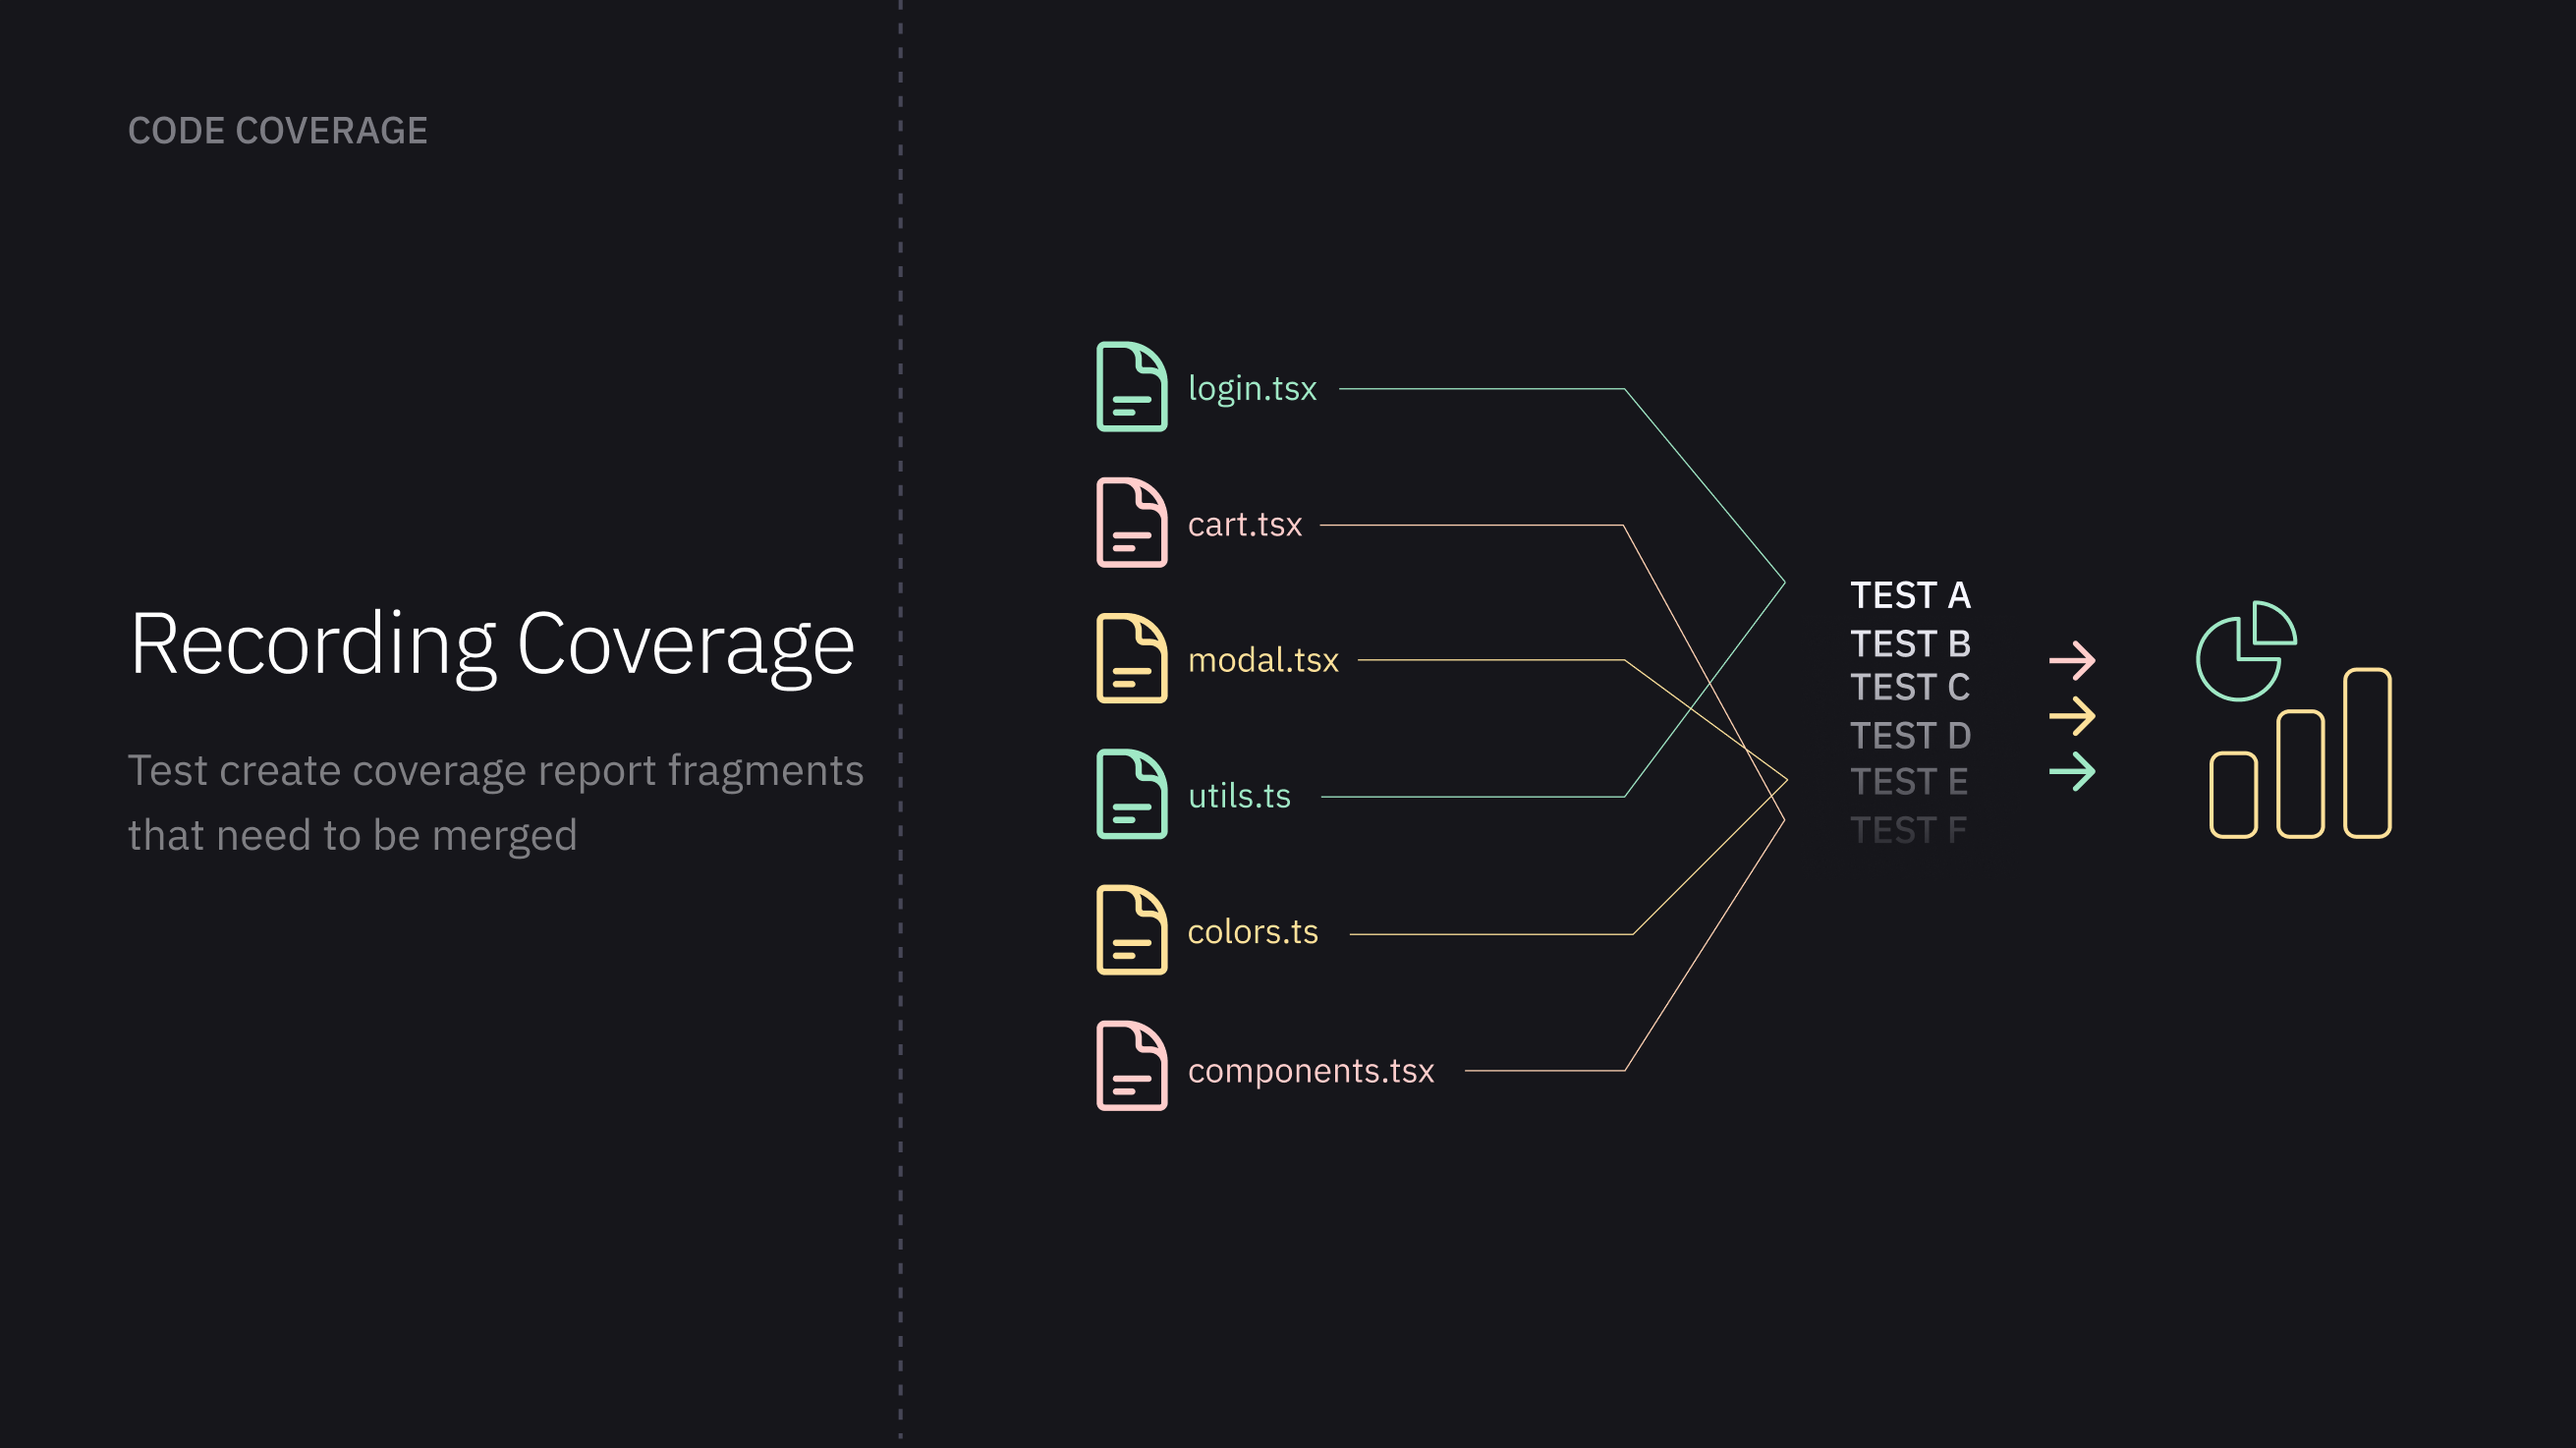
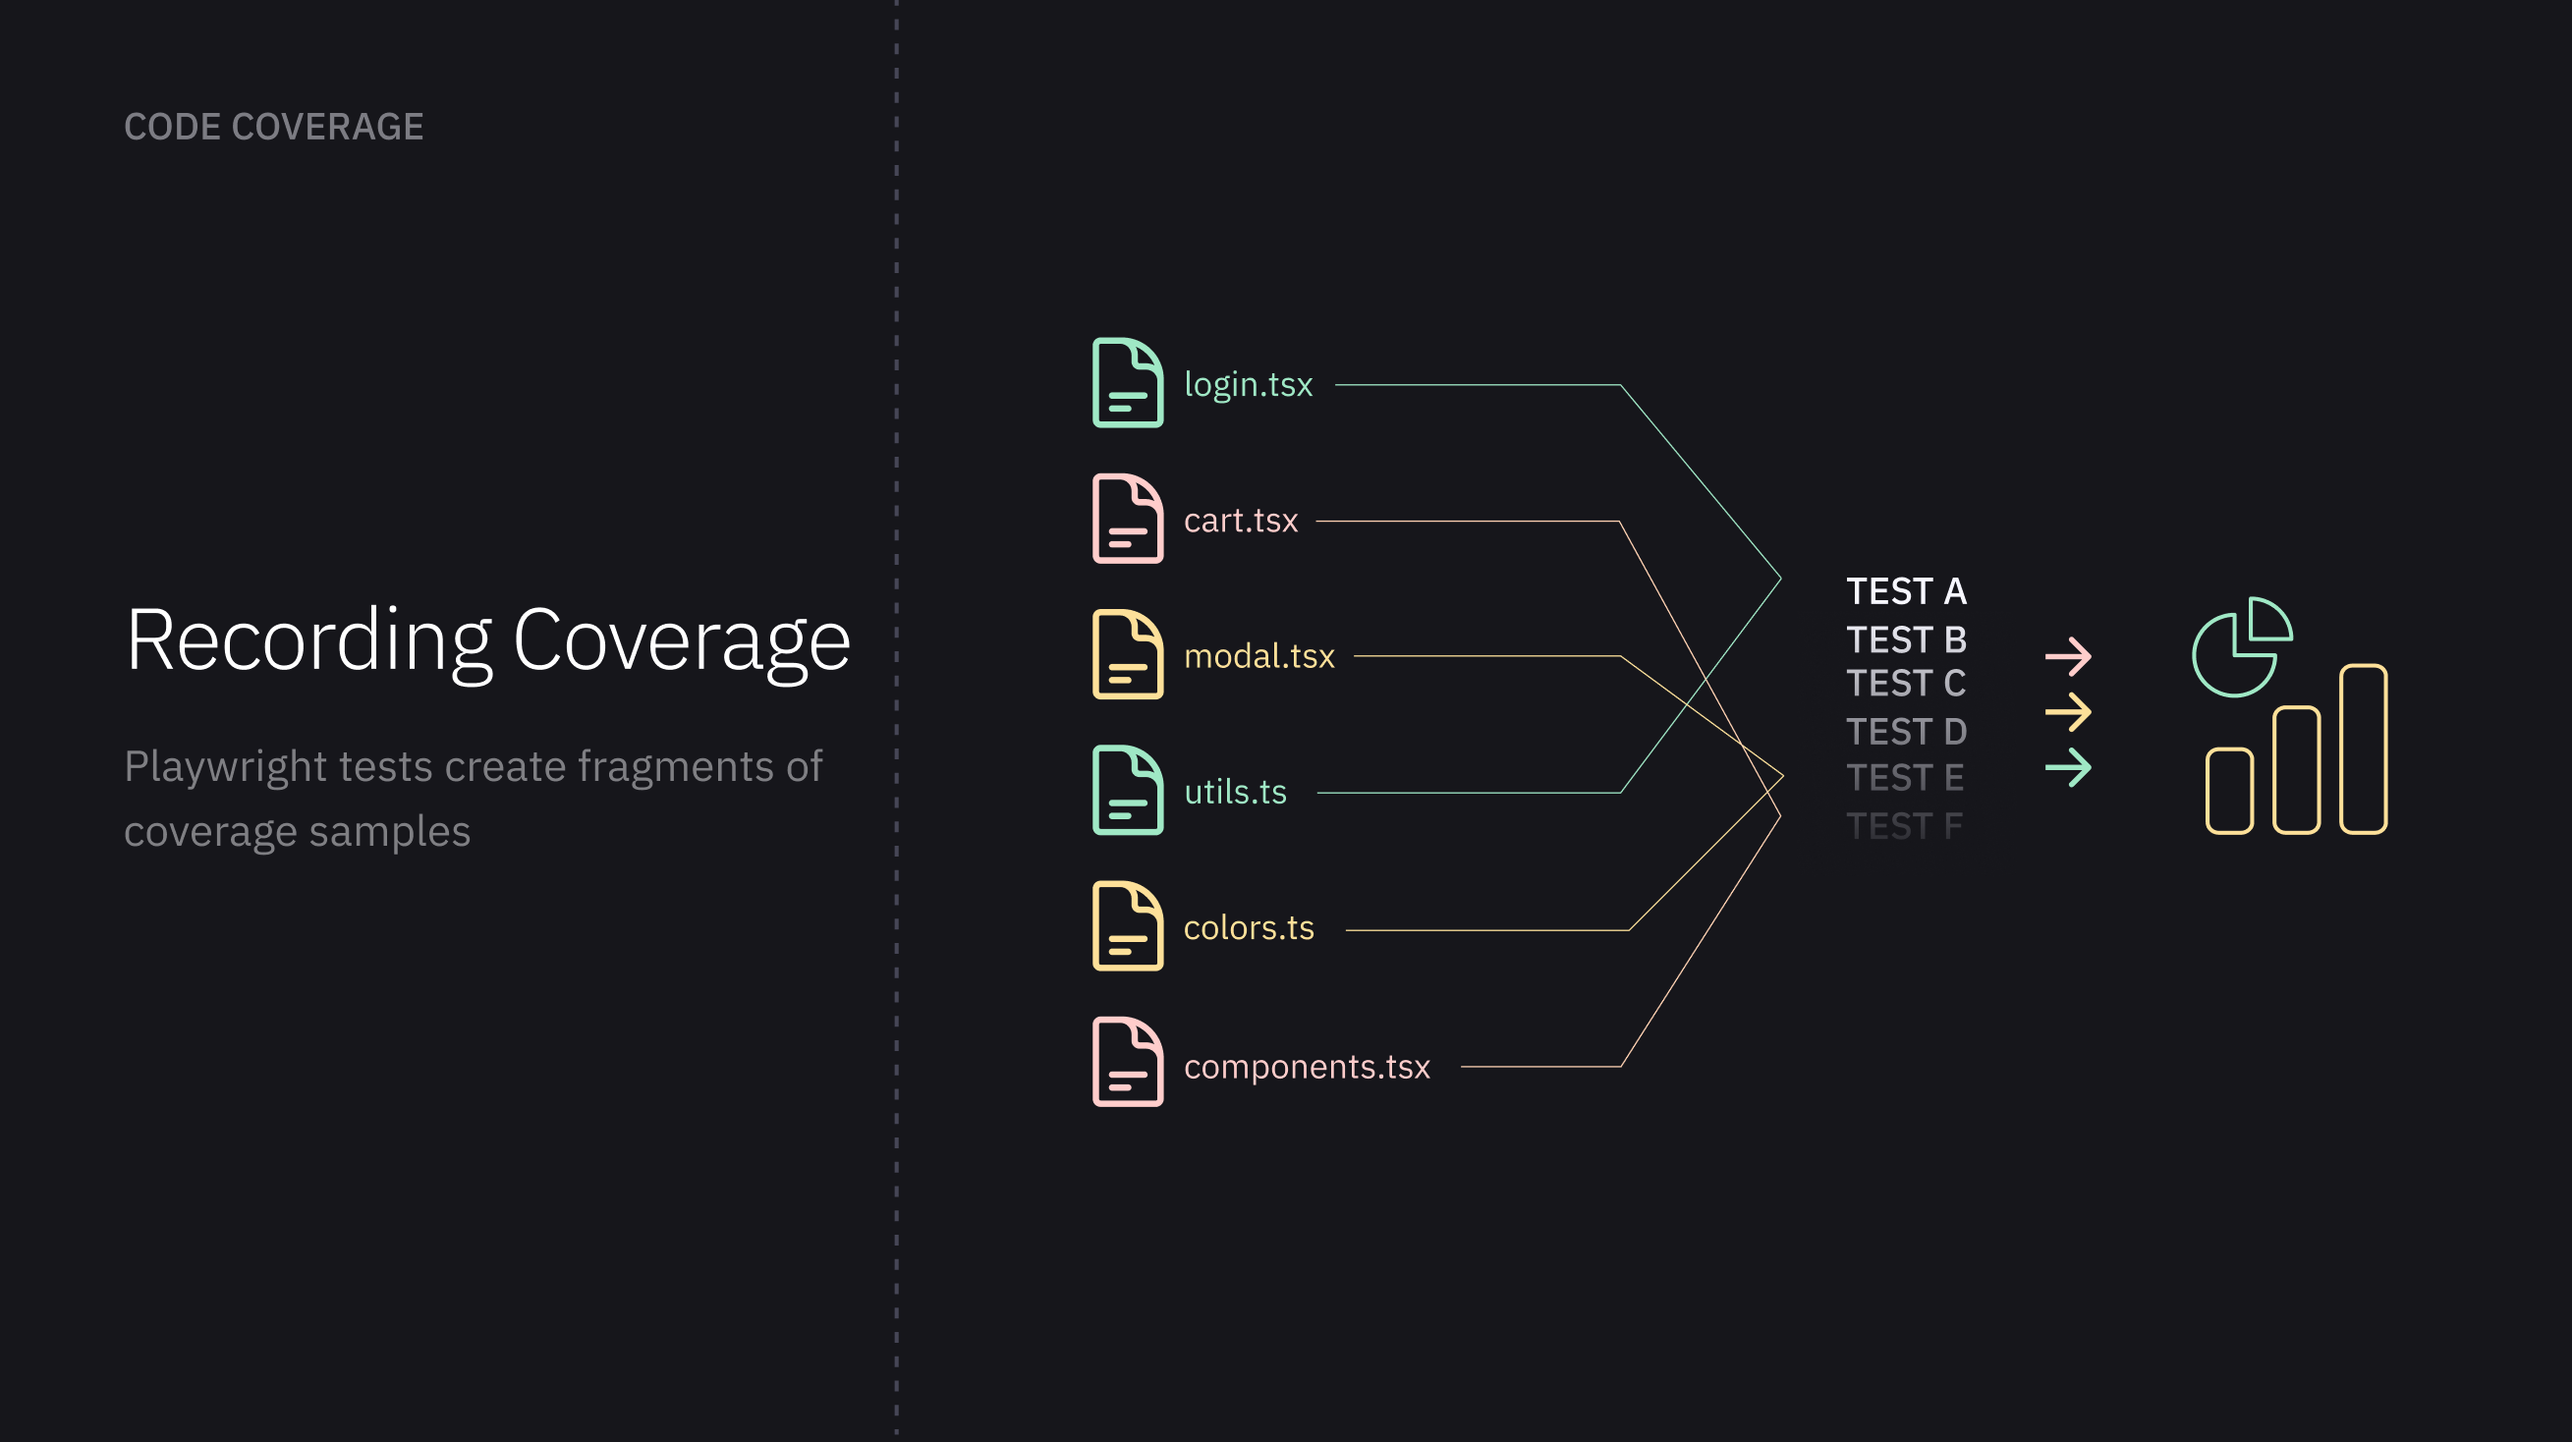
GITBOOK-527: No subject

diff --git a/guides/coverage.md b/guides/coverage.md
@@ -17,7 +17,7 @@ When running browser-based end-to-end or component tests, we can talk about vari
 
 **Code coverage**
 
-Code coverage measures what parts of the source code were executed and how often - a typical metric is the number and percentage of the covered lines of code, `if` statements, functions and so on.
+Code coverage measures what parts of the source code were executed and how often. Code coverage metrics are related to code abstracts - lines of code, `if` statements (branches), functions and so on.
 
 **Functional UI coverage**
 
@@ -31,39 +31,35 @@ This guide focuses on Code Coverage, specifically - on how to report Code Covera
 
 **Code instrumentation**
 
-The frontend source code goes through some kind of transformation before being loaded into a browser. It can be a manual build / bundling stage that you manage yourself (using tools like webpack, esbuild, rollup, swc etc.) or a build step of a popular frontend framework like vite, nextjs, remix, svelte, angular.
+The frontend source code goes through a transpilation before being loaded into a browser. It can be a manual build / bundling stage that you manage yourself (using tools like webpack, esbuild, rollup, swc etc.) or a build step of a popular frontend framework like vite, nextjs, remix, svelte, angular.
 
-During the build phase we can instrument the compiled code - for example, set a counter measuring function invocations, measure entering an `if` statement, or even measure how many lines of the source code run.&#x20;
+During the build phase we instrument the compiled code - for example, increment a counter before function invocations or before entering an `if` statement. Running the instrumented code activates the counters and that's how we measure the coverage.
 
-<figure><img src="../.gitbook/assets/coverage-instrumentation@2x (1).png" alt=""><figcaption><p>Instrumenting code for collecting code coverage</p></figcaption></figure>
+<figure><img src="../.gitbook/assets/coverage-instrumentation.png" alt=""><figcaption><p>Instrumenting code for collecting code coverage</p></figcaption></figure>
 
-Instrumentation is the traditional way to generate coverage metrics. It allows collecting coverage metrics on different browsers and JS engines.
+Instrumentation is the traditional way to generate coverage metrics on different browsers and JS engines.
 
-[Instanbul ](https://istanbul.js.org/)is popular ecosystem of coverage-related tools is widely used to instrument code, and generate coverage reports.
+[Instanbul ](https://istanbul.js.org/)is a popular ecosystem of coverage-related tools - it is widely used to instrument code and generate coverage reports.
 
 **V8 Code Coverage**
 
-An alternative approach is to use built-in capabilities of Javascript engines. For example, NodeJS and Chromium-based browsers use V8, which collects coverage metrics while executing code.
+An alternative approach is to use the built-in capabilities of Javascript engines. For example, NodeJS and chromium-based browsers use V8, which collects coverage metrics while executing JS code.
 
+<figure><img src="../.gitbook/assets/coverage-v8.png" alt=""><figcaption><p>V8 collects code coverage without instrumentation</p></figcaption></figure>
 
-
-<figure><img src="../.gitbook/assets/coverage-v8@2x (3).png" alt=""><figcaption><p>V8 collects code coverage without instrumentation</p></figcaption></figure>
-
-There's no need to instrument the code when using the built-in coverage, one can get the metrics by sending a series of [API calls](https://chromedevtools.github.io/devtools-protocol/tot/Profiler/#method-startPreciseCoverage). It is common to transform the output of V8 coverage report to other formats that are common in the industry.
+There's no need to instrument the code in V8 - one can get the metrics by sending a series of [API calls](https://chromedevtools.github.io/devtools-protocol/tot/Profiler/#method-startPreciseCoverage). It is common to transform the output of V8 coverage report to other popular formats.
 
 ### Recording Coverage Fragments
 
-Web automation tools like Cypress, Selenium or Playwright run your application in a browser. The tests navigate to various routes, interact with the page components - every such interaction activates certain parts of the source code and populates the coverage information.
+Web automation tools like Cypress, Selenium or Playwright run your application in a browser. The tests navigate to various routes, interact with the page components - every interaction activates certain parts of the code and populates the coverage information.
 
-Each individual test creates partial coverage information. At the end of each test, we need to collect the those fragments and merge them to create a complete snapshot of what parts of the source code are "covered" by your testing suite.
+Each individual test creates partial coverage report. At the end of each test, we need to collect the those fragments and merge them to create a complete snapshot of what parts of the source code are "covered" by your testing suite.
 
-
-
-<figure><img src="../.gitbook/assets/coverage-recording (4).png" alt=""><figcaption><p>Recording and merging coverage fragmented reports </p></figcaption></figure>
+<figure><img src="../.gitbook/assets/coverage-recording.png" alt=""><figcaption><p>Recording and merging coverage fragmented reports </p></figcaption></figure>
 
 ### Coverage Metrics
 
-Traditionally, code coverage metrics include line coverage, branch coverage, function coverage, and statement coverage.
+Code coverage metrics include line coverage, branch coverage, function coverage, and statement coverage.
 
 * **Line coverage** measures the percentage of lines of code that have been called
 * **Branch coverage** measures the percentage of if/else code branches that have been checked
@@ -76,25 +72,25 @@ Read more about [Code Coverage metrics meaning](https://en.wikipedia.org/wiki/Co
 
 ### Code Coverage in CI
 
-As your test suite grows and you start running tests in CI, often in parallel, you need to start maintaining the merging of coverage reports from multiple containers or shards, identifying changes in coverage metrics, taking action as a result of a change.
+As your test suite grows and you start running tests in CI, often in parallel, you need to start maintaining the merging of coverage reports from multiple containers or shards, identifying changes in coverage metrics and tracing changes.
 
-Currents simplifies this process.
+Currents simplifies this process by:
 
 * Collecting coverage reports from distributed CI machines
 * Handling test retries and interrupted runs accurately
 * Uploading raw coverage reports for processing in the background
 * Tracking coverage metrics over time, with support for filtering by tags, git metadata, and more
 
-<figure><img src="../.gitbook/assets/currents-2024-11-26-16.15.14@2x.png" alt=""><figcaption><p>Collecting and managing coverage reports in CI</p></figcaption></figure>
+<figure><img src="../.gitbook/assets/coverage-ci.png" alt=""><figcaption><p>Collecting, merging and making sense of distributed coverage reports</p></figcaption></figure>
 
 ### Coverage Metrics in Currents
 
 {% hint style="info" %}
 * The current version only shows aggregated **cross-file coverage metrics.**
-* Only fully finished runs contribute to coverage reports. A run is fully completed if it reported results from all spec files and tests. Cancelled and timed-out runs are not fully completed, thus Currents will ignore their coverage reports.
+* Only finished runs contribute to coverage reports. A run is finished if it reported results for all spec files and tests. Cancelled and timed-out runs are not considered finished, thus Currents will ignore their coverage reports.
 {% endhint %}
 
-Currents collects, aggregates and stores the coverage information for recorded runs together with the associated metadata like git commit info or tags. After enabling code coverage for your testing suite, you'll be able to browse the code coverage details for individual runs, as well as explore trends and cross-run, aggregated coverage metrics.
+Currents collects, aggregates and stores the coverage information for recorded runs together with the associated metadata like git commit info or tags. After enabling code coverage for your testing suite, you'll be able to browse the code coverage details for individual runs, as well as explore trends and aggregated coverage metrics.
 
 <figure><img src="../.gitbook/assets/currents-2024-11-26-17.13.56@2x.png" alt=""><figcaption><p>Run-specific code coverage details</p></figcaption></figure>
 
